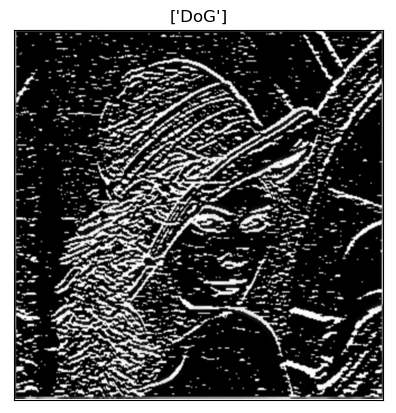
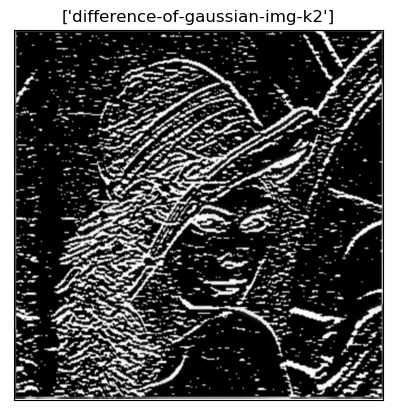
[UPDATE] Separate DoG part into function

Changed region(s): [[0.1515, 0.0, 0.8485, 0.0581]]

diff --git a/edge-detection/DoG.py b/edge-detection/DoG.py
@@ -23,13 +23,16 @@ class Main:
         g = np.exp(-(x ** 2 + y ** 2) / (2 * (sigma ** 2))) / (sigma ** 2 * (2 * math.pi))
         return g / g.sum()
 
-    def __main__(self):
+    def difference_of_gaussian(self, ksize, sigma1, sigma2):
         gaussian_field = [[[0.0, 0.0] for col in range(self.width)] for row in range(self.height)]
 
+        k = int(ksize)
+        sigma1 = float(sigma1)
+        sigma2 = float(sigma2)
+
         # Make the Gaussian by calling the function
-        k = 1
-        gaussian_kernel1 = self.gaussian_kernel(k, 1.0)
-        gaussian_kernel2 = self.gaussian_kernel(k, 1.5)
+        gaussian_kernel1 = self.gaussian_kernel(k, sigma1)
+        gaussian_kernel2 = self.gaussian_kernel(k, sigma2)
 
         for h in range(k, self.height-k):
             for w in range(k, self.width-k):
@@ -57,6 +60,10 @@ class Main:
         for h in range(k, self.height-k):
             for w in range(k, self.width-k):
                 self.difference_of_gaussian_img.itemset(h, w, gaussian_field[h][w][0] - gaussian_field[h][w][1])
+
+    def __main__(self):
+
+        self.difference_of_gaussian(1, 1.0, 1.5)
 
         # UI
         images = [self.difference_of_gaussian_img]
